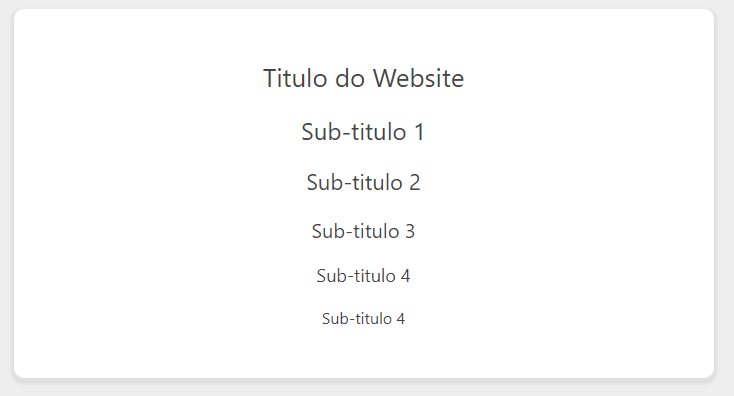
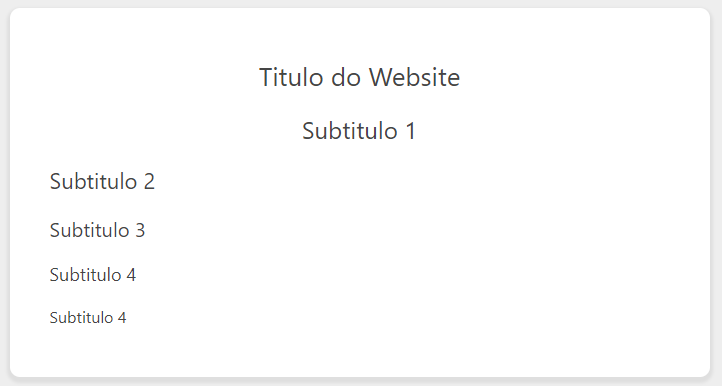
Adição de tabelas curtas e link a como botão

diff --git a/example.html b/example.html
@@ -8,21 +8,21 @@
   <title>Your page</title>
 </head>
 <body>
-
   <nav>
+    <a href="#"><img src="images/logo.png"></a>
     <a class="active" href="#">Home</a>
     <a href="#">Itens</a>
     <a href="#">Users</a>
   </nav>
-
+  
   <section>
     <div class="container">
       <h1>Titulo do Website</h1>
-      <h2>Sub-titulo 1</h2>
-      <h3>Sub-titulo 2</h3>
-      <h4>Sub-titulo 3</h4>
-      <h5>Sub-titulo 4</h5>
-      <h6>Sub-titulo 4</h6>
+      <h2>Subtitulo 1</h2>
+      <h3>Subtitulo 2</h3>
+      <h4>Subtitulo 3</h4>
+      <h5>Subtitulo 4</h5>
+      <h6>Subtitulo 4</h6>
     </div>
   </section>
 
@@ -51,15 +51,19 @@
     <div class="container">
       <a href="#">Link Example</a>
       <a href="#">Link Example</a>
-      <a href="#">Link Example</a>
-      <br>
-      <br>
+      <a href="#">Link Example</a><br>
+
+      <h3>Lista de itens</h1>
       <ul>
         <li>Item List example</li>
         <li>Item List example</li>
         <li>Item List example</li>
         <li>Item List example</li>
-      </ul>  
+      </ul><br>
+
+      <h3>Respostas</h1>
+      <p><strong>Resposta: </strong> Isso é uma resposta qualquer<br></p>
+      <button class="red"><a href="#">Botão perguntar com link</a></button>
     </div>
   </section>
 
@@ -107,6 +111,28 @@
     </div>
   </section>
 
+  <section>
+    <div class="container">
+
+      <h1>Painel administrador</h1>
+      <table>
+        <tr>
+          <th>id</th>
+          <th>name</th>
+          <th>Ações</th>
+        </tr>
+  
+        <tr>
+          <td>2</td>
+          <td>lisa@google.com</td>
+          <td>
+            <button class="blue">View</button>
+            <a class="green">View 2</button>
+          </td>
+        </tr>
+      </table>  
+    </div>
+  </section>
 
   <footer>
     <p>Copyrigth@yourName</p>

diff --git a/relieve.css b/relieve.css
@@ -2,6 +2,7 @@
   --primary: #009980;
   --inverse: #fff;
   --box-shadow: 0 3px 3px 3px #45454517;
+  --box-shadow-minimal: 0 0px 1px 1px #45454517;
   --red: #e63241;
   --orange: #f3711a;
   --blue: #3295e6;
@@ -24,9 +25,15 @@ body {
   background-color: var(--bg-primary);
 }
 
-h1, h2, h3, h4, h5, h6 {
+h1, h2 {
   padding: 10px 0;
   text-align: center;
+  width: 100%;
+}
+
+h3, h4, h5, h6 {
+  padding: 10px 0;
+  text-align: left;
   width: 100%;
 }
 
@@ -131,6 +138,11 @@ nav a.active::after{
   height: 2px;
   background-color: var(--inverse);
 }
+nav img {
+  height: 30px;
+  width: auto;
+  object-fit: cover;
+}
 
 /* Table design */
 
@@ -138,6 +150,7 @@ table {
   border-collapse: collapse;
   width: 100%;
   overflow-x: auto;
+
 }
 
 table td, table th {
@@ -156,11 +169,8 @@ table th {
 }
 
 tr > td {
-  white-space: nowrap;
-}
-
-td > button {
-  display: inline-block;
+  word-wrap: break-word;
+  white-space: wrap;
 }
 
 td img {
@@ -170,7 +180,13 @@ td img {
   object-fit: cover;
 }
 
+
+td > button {
+  display: inline-block;  
+}
+
 td a {
+  display: inline-block;
   text-decoration: none;
   padding: 8px;
   background: var(--primary);
@@ -179,6 +195,22 @@ td a {
   border-radius: 5px;
   margin: 5px;
   cursor: pointer;
+}
+
+
+button a {
+  text-decoration: none;
+  color: inherit;
+  background-color: inherit;
+  padding: 8px;
+  border: 0;
+  border-radius: 5px;
+  margin: 8px;
+  cursor: pointer;
+}
+
+strong {
+  font-weight: 700;
 }
 
 

diff --git a/README.md b/README.md
@@ -14,6 +14,7 @@ Adicione o arquivo global.css no seu projeto e use os componentes abaixo:
 ## Criando um menu
 ```html
 <nav>
+  <a href="#"><img src="images/logo.png"></a>
   <a class="active" href="#">Home</a>
   <a href="#">Itens</a>
   <a href="#">Users</a>
@@ -26,11 +27,11 @@ Adicione o arquivo global.css no seu projeto e use os componentes abaixo:
 <section>
   <div class="container">
     <h1>Titulo do Website</h1>
-    <h2>Sub-titulo 1</h2>
-    <h3>Sub-titulo 2</h3>
-    <h4>Sub-titulo 3</h4>
-    <h5>Sub-titulo 4</h5>
-    <h6>Sub-titulo 4</h6>
+    <h2>Subtitulo 1</h2>
+    <h3>Subtitulo 2</h3>
+    <h4>Subtitulo 3</h4>
+    <h5>Subtitulo 4</h5>
+    <h6>Subtitulo 4</h6>
   </div>
 </section>
 ```
@@ -63,71 +64,106 @@ Adicione o arquivo global.css no seu projeto e use os componentes abaixo:
 
 ## Trabalhando com listas
 ```html
-<section>
-  <div class="container">
-    <a href="#">Link Example</a>
-    <a href="#">Link Example</a>
-    <a href="#">Link Example</a>
-    <br>
-    <br>
-    <ul>
-      <li>Item List example</li>
-      <li>Item List example</li>
-      <li>Item List example</li>
-      <li>Item List example</li>
-    </ul>  
-  </div>
-</section>
+  <section>
+    <div class="container">
+      <a href="#">Link Example</a>
+      <a href="#">Link Example</a>
+      <a href="#">Link Example</a><br>
+
+      <h3>Lista de itens</h1>
+      <ul>
+        <li>Item List example</li>
+        <li>Item List example</li>
+        <li>Item List example</li>
+        <li>Item List example</li>
+      </ul><br>
+
+      <h3>Respostas</h1>
+      <p><strong>Resposta: </strong> Isso é uma resposta qualquer<br></p>
+      <button class="red"><a href="#">Botão perguntar com link</a></button>
+    </div>
+  </section>
 ```
 ![Footer do relieve](images/lists_links.png)
 
 
-## Trabalhando com tabelas
+## Trabalhando com tabelas largas
 ```html
-<section>
-  <div class="container-large">
-    <h1>Painel administrador</h1>
-    <table>
-      <tr>
-        <th>id</th>
-        <th>foto</th>
-        <th>name</th>
-        <th>email</th>
-        <th>Cargo</th>
-        <th>Ações</th>
-      </tr>
-      <tr>
-        <td>1</td>
-        <td><img src="perfil.webp"></td>
-        <td>Amy Winehouse</td>
-        <td>amy@winehouse.com</td>
-        <td>admin</td>
-        <td>
-          <button class="blue">View</button>
-          <button class="green">View 2</button>
-          <a class="orange">Edit</a>
-          <a class="red" >Delete</a>
-        </td>
-      </tr>
+  <section>
+    <div class="container-large">
 
-      <tr>
-        <td>2</td>
-        <td><img src="perfil.webp"></td>
-        <td>Lisa</td>
-        <td>lisa@google.com</td>
-        <td>user</td>
-        <td>
-          <button class="blue">View</button>
-          <button class="green">View 2</button>
-          <button class="orange">Edit</button>
-          <button class="red" >Delete</button>
-        </td>
-      </tr>
-    </table>  
-  </div>
-</section>
+      <h1>Painel administrador</h1>
+      <table>
+        <tr>
+          <th>id</th>
+          <th>foto</th>
+          <th>name</th>
+          <th>email</th>
+          <th>Cargo</th>
+          <th>Ações</th>
+        </tr>
+        <tr>
+          <td>1</td>
+          <td><img src="perfil.webp"></td>
+          <td>Amy Winehouse</td>
+          <td>amy@winehouse.com</td>
+          <td>admin</td>
+          <td>
+            <button class="blue">View</button>
+            <button class="green">View 2</button>
+            <a class="orange">Edit</a>
+            <a class="red" >Delete</a>
+          </td>
+        </tr>
+  
+        <tr>
+          <td>2</td>
+          <td><img src="perfil.webp"></td>
+          <td>Lisa</td>
+          <td>lisa@google.com</td>
+          <td>user</td>
+          <td>
+            <button class="blue">View</button>
+            <button class="green">View 2</button>
+            <button class="orange">Edit</button>
+            <button class="red" >Delete</button>
+          </td>
+        </tr>
+      </table>  
+    </div>
+  </section>
 ```
 ![Footer do relieve](images/table.png)
+
+## Trabalhando com tabelas curtas
+```html
+ <section>
+    <div class="container">
+
+      <h1>Painel administrador</h1>
+      <table>
+        <tr>
+          <th>id</th>
+          <th>name</th>
+          <th>Ações</th>
+        </tr>
+  
+        <tr>
+          <td>2</td>
+          <td>lisa@google.com</td>
+          <td>
+            <button class="blue">View</button>
+            <a class="green">View 2</button>
+          </td>
+        </tr>
+      </table>  
+    </div>
+  </section>
+```
+![Footer do relieve](images/table2.png)
+
+
+
 
 
 ## Trabalhando com um footer
